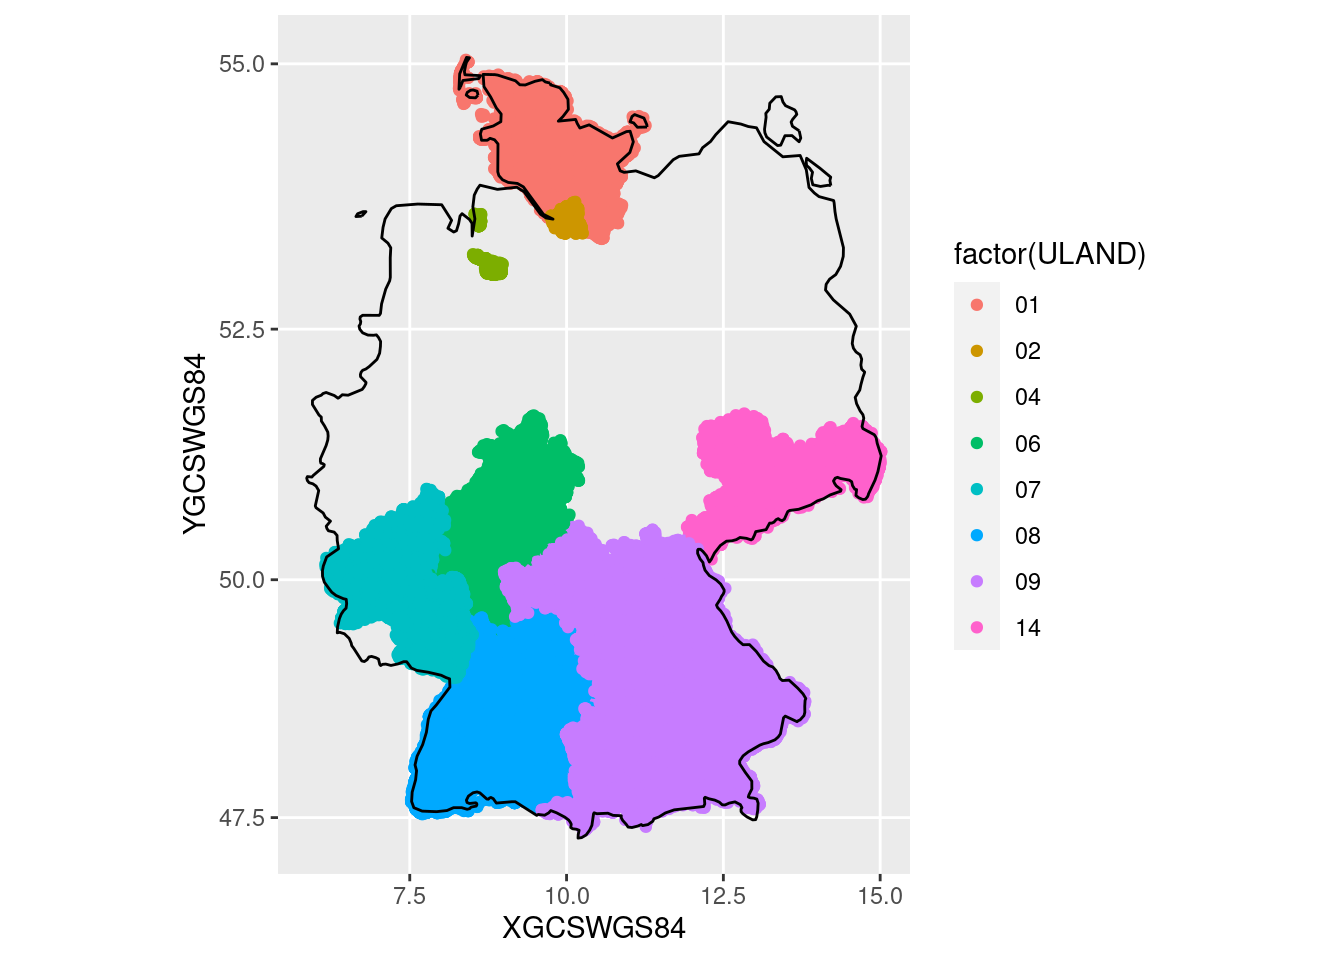
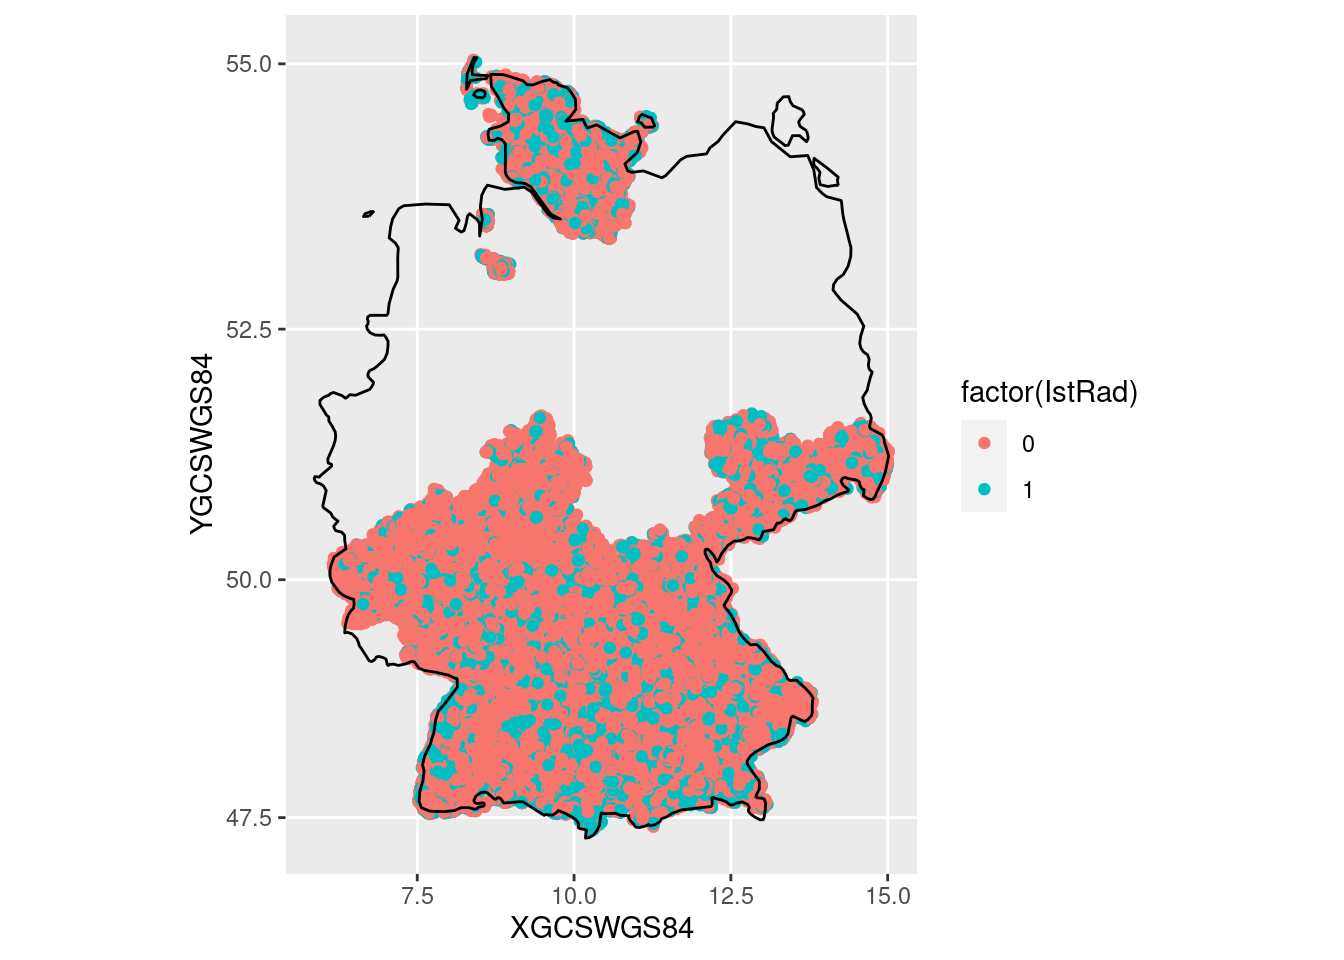
update

diff --git a/docs/unfall.html b/docs/unfall.html
@@ -243,10 +243,10 @@ code span.wa { color: #60a0b0; font-weight: bold; font-style: italic; } /* Warni
 <span class="va">germany</span> <span class="op">&lt;-</span>  <span class="va">world</span> |&gt; 
   <span class="fu"><a href="https://dplyr.tidyverse.org/reference/filter.html">filter</a></span><span class="op">(</span><span class="va">region</span> <span class="op">==</span> <span class="st">"Germany"</span><span class="op">)</span></code><button title="Copy to Clipboard" class="code-copy-button"><i class="bi"></i></button></pre></div>
 </div>
-<div class="cell" data-hash="unfall_cache/html/unnamed-chunk-7_6376c96fb15d12f228b1586e73e3a276">
+<div class="cell" data-hash="unfall_cache/html/unnamed-chunk-7_a8931a17d603aa512900018d46efaf62">
 <div class="sourceCode" id="cb7"><pre class="downlit sourceCode r code-with-copy"><code class="sourceCode R"><span class="va">accidents</span> |&gt; 
   <span class="fu"><a href="https://ggplot2.tidyverse.org/reference/ggplot.html">ggplot</a></span><span class="op">(</span><span class="fu"><a href="https://ggplot2.tidyverse.org/reference/aes.html">aes</a></span><span class="op">(</span><span class="va">XGCSWGS84</span>, <span class="va">YGCSWGS84</span><span class="op">)</span><span class="op">)</span> <span class="op">+</span>
-  <span class="fu"><a href="https://ggplot2.tidyverse.org/reference/geom_point.html">geom_point</a></span><span class="op">(</span><span class="fu"><a href="https://ggplot2.tidyverse.org/reference/aes.html">aes</a></span><span class="op">(</span>color <span class="op">=</span> <span class="fu"><a href="https://rdrr.io/r/base/factor.html">factor</a></span><span class="op">(</span><span class="va">ULAND</span><span class="op">)</span><span class="op">)</span><span class="op">)</span> <span class="op">+</span>
+  <span class="fu"><a href="https://ggplot2.tidyverse.org/reference/geom_point.html">geom_point</a></span><span class="op">(</span><span class="fu"><a href="https://ggplot2.tidyverse.org/reference/aes.html">aes</a></span><span class="op">(</span>color <span class="op">=</span> <span class="fu"><a href="https://rdrr.io/r/base/factor.html">factor</a></span><span class="op">(</span><span class="va">IstRad</span><span class="op">)</span><span class="op">)</span><span class="op">)</span> <span class="op">+</span>
   <span class="fu"><a href="https://ggplot2.tidyverse.org/reference/geom_path.html">geom_path</a></span><span class="op">(</span>data <span class="op">=</span> <span class="va">germany</span>, <span class="fu"><a href="https://ggplot2.tidyverse.org/reference/aes.html">aes</a></span><span class="op">(</span>x <span class="op">=</span> <span class="va">long</span>, y <span class="op">=</span> <span class="va">lat</span>, group <span class="op">=</span> <span class="va">subregion</span><span class="op">)</span><span class="op">)</span> <span class="op">+</span>
   <span class="fu"><a href="https://ggplot2.tidyverse.org/reference/coord_map.html">coord_map</a></span><span class="op">(</span>projection <span class="op">=</span> <span class="st">"mercator"</span><span class="op">)</span></code><button title="Copy to Clipboard" class="code-copy-button"><i class="bi"></i></button></pre></div>
 <div class="cell-output-display">
@@ -652,7 +652,7 @@ window.document.addEventListener("DOMContentLoaded", function (event) {
 <span id="cb12-64"><a href="#cb12-64" aria-hidden="true" tabindex="-1"></a><span class="in">```{r}</span></span>
 <span id="cb12-65"><a href="#cb12-65" aria-hidden="true" tabindex="-1"></a>accidents <span class="sc">|&gt;</span> </span>
 <span id="cb12-66"><a href="#cb12-66" aria-hidden="true" tabindex="-1"></a>  <span class="fu">ggplot</span>(<span class="fu">aes</span>(XGCSWGS84, YGCSWGS84)) <span class="sc">+</span></span>
-<span id="cb12-67"><a href="#cb12-67" aria-hidden="true" tabindex="-1"></a>  <span class="fu">geom_point</span>(<span class="fu">aes</span>(<span class="at">color =</span> <span class="fu">factor</span>(ULAND))) <span class="sc">+</span></span>
+<span id="cb12-67"><a href="#cb12-67" aria-hidden="true" tabindex="-1"></a>  <span class="fu">geom_point</span>(<span class="fu">aes</span>(<span class="at">color =</span> <span class="fu">factor</span>(IstRad))) <span class="sc">+</span></span>
 <span id="cb12-68"><a href="#cb12-68" aria-hidden="true" tabindex="-1"></a>  <span class="fu">geom_path</span>(<span class="at">data =</span> germany, <span class="fu">aes</span>(<span class="at">x =</span> long, <span class="at">y =</span> lat, <span class="at">group =</span> subregion)) <span class="sc">+</span></span>
 <span id="cb12-69"><a href="#cb12-69" aria-hidden="true" tabindex="-1"></a>  <span class="fu">coord_map</span>(<span class="at">projection =</span> <span class="st">"mercator"</span>)</span>
 <span id="cb12-70"><a href="#cb12-70" aria-hidden="true" tabindex="-1"></a><span class="in">```</span></span>
